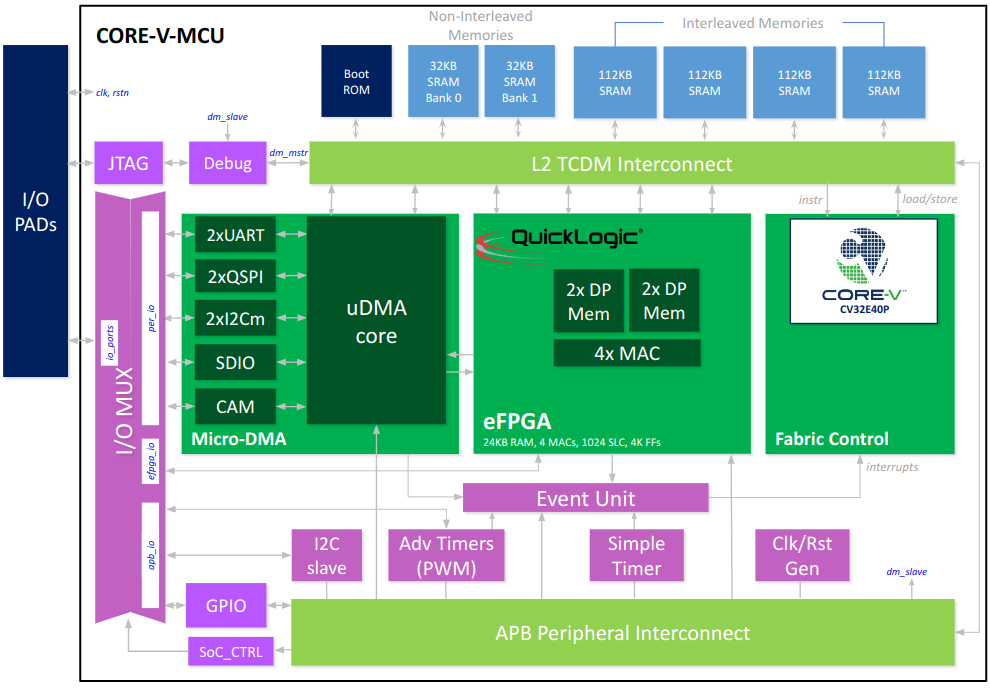
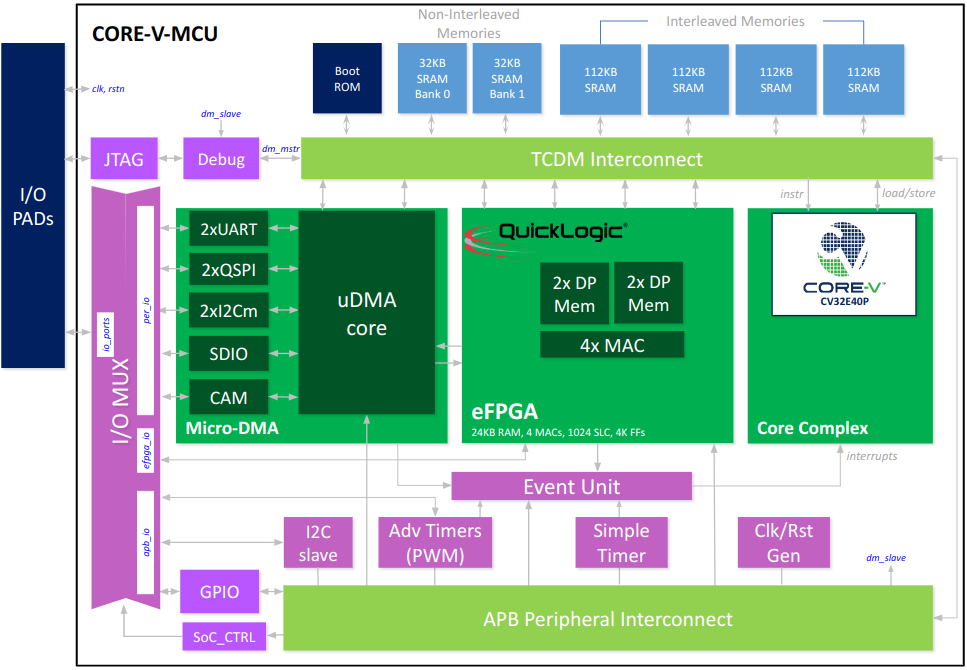
Rename fc_subsystem and l2_tcdm_interconnect

diff --git a/docs/doc-src/terminology.rst b/docs/doc-src/terminology.rst
@@ -7,36 +7,46 @@
 Terminology
 ===========
 
-+-----------------+------------------------------------------------------------------------+
-| Term            | Defintion                                                              |
-+=================+========================================================================+
-| APB             | Advanced Peripheral Bus. APB is a low-cost interface that is optimized |
-|                 | for minimal power consumption and reduced interface complexity.        |
-+-----------------+------------------------------------------------------------------------+
-| CORE-V          | A family of RISC-V cores developed by the OpenHW Group.                |
-+-----------------+------------------------------------------------------------------------+
-| CORE-V-MCU      | A micro-controller based on the CV32E40P CORE-V processor core.        |
-+-----------------+------------------------------------------------------------------------+
-| CSRs            | Control and Status Registers.                                          |
-+-----------------+------------------------------------------------------------------------+
-| DMA             | Direct Memory Access.                                                  |
-+-----------------+------------------------------------------------------------------------+
-| uDMA, micro-DMA | Small, specific-purpose DMA controller supported by the CORE-V-MCU.    |
-+-----------------+------------------------------------------------------------------------+
-| L2              | Level 2.  In memory architectures L1 is typically a cache tightly      |
-|                 | coupled to the core and L2 is a non-cached memory used for data store. |
-+-----------------+------------------------------------------------------------------------+
-| TCDM            | Tightly Coupled Data Memory.  Generic term for a memory architecure    |
-|                 | that is purpose built for a specific application.                      |
-+-----------------+------------------------------------------------------------------------+
-| L2 TCDM         | Level 2 Memory Interconnect.  An SoC bus fabric tuned specifically to  |
-| Interconnect    | provide high-bandwidth, low-latency connections to memory resources.   |
-+-----------------+------------------------------------------------------------------------+
-| XBUS_TCDM_BUS   | The I/O Bus used by the CORE-V-MCU L2 TCDM Interconnect.               |
-+-----------------+------------------------------------------------------------------------+
-| OBI             | Open Bus Interface. An open source bus specification.  OBI is used as  |
-|                 | the Instruction fetch and Data load/store bus by the CVE cores such as |
-|                 | the CV32E40P.                                                          |
-+-----------------+------------------------------------------------------------------------+
++-----------------+------------------------------------------------------------------------------+
+| Term            | Defintion                                                                    |
++=================+==============================================================================+
+| APB             | Advanced Peripheral Bus. APB is a low-cost interface that is optimized       |
+|                 | for minimal power consumption and reduced interface complexity.              |
++-----------------+------------------------------------------------------------------------------+
+| CSRs            | Control and Status Registers.                                                |
++-----------------+------------------------------------------------------------------------------+
+| Core Complex    | In the CORE-V-MCU, the Core Complex is a SystemVerilog module instantiating  |
+|                 | the processor core.                                                          |
++-----------------+------------------------------------------------------------------------------+
+| CORE-V          | A family of RISC-V cores developed by the OpenHW Group.                      |
++-----------------+------------------------------------------------------------------------------+
+| CORE-V-MCU      | A micro-controller based on the CV32E40P CORE-V processor core.              |
++-----------------+------------------------------------------------------------------------------+
+| DMA             | Direct Memory Access.                                                        |
++-----------------+------------------------------------------------------------------------------+
+| eFPGA           | Embedded Field Programmable Gate Array. The CORE-V-MCU supports an eFPGA.    |
++-----------------+------------------------------------------------------------------------------+
+| uDMA, micro-DMA | Small, specific-purpose DMA controller supported by the CORE-V-MCU.          |
++-----------------+------------------------------------------------------------------------------+
+| L1, L2          | Level 1, Level 2. In memory architectures L1 typically refers to a           |
+|                 | cache memory that is tightly tightly coupled to the core and L2 is a         |
+|                 | non-cached memory used for data store.                                       |
+|                 |                                                                              |
+|                 | The CORE-V-MCU does not support an L1 cache for either instructions or data. |
+|                 | The CORE-V-MCU Core Complex, eFPGA and uDMA Subsystems all access L2         |
+|                 | memory via the TCDM Interconnect.                                            |
++-----------------+------------------------------------------------------------------------------+
+| TCDM            | Tightly Coupled Data Memory.  Generic term for a memory architecure          |
+|                 | that is purpose built for a specific application.                            |
++-----------------+------------------------------------------------------------------------------+
+| TCDM            | Level 2 Memory Interconnect.  An SoC bus fabric tuned specifically to        |
+| Interconnect    | provide high-bandwidth, low-latency connections to memory resources.         |
++-----------------+------------------------------------------------------------------------------+
+| XBUS_TCDM_BUS   | The I/O Bus used by the CORE-V-MCU TCDM Interconnect.                        |
++-----------------+------------------------------------------------------------------------------+
+| OBI             | Open Bus Interface. An open source bus specification.  OBI is used as        |
+|                 | the Instruction fetch and Data load/store bus by the CVE cores such as       |
+|                 | the CV32E40P.                                                                |
++-----------------+------------------------------------------------------------------------------+
 
 

diff --git a/docs/doc-src/high_level_architecture.rst b/docs/doc-src/high_level_architecture.rst
@@ -54,54 +54,54 @@ The DP memories are accessible by user-defined logic in the eFPGA and are not ac
 
 Internal Buses
 --------------
-The CORE-V-MCU has two internal bus fabrics.
+The CORE-V-MCU has two internal bus interconnect fabrics.
 
-L2 TCDM Interconnect
-~~~~~~~~~~~~~~~~~~~~
-The L2 TCDM Interconnect is a high performance, low latency memory bus interconnect.
+TCDM Interconnect
+~~~~~~~~~~~~~~~~~
+The TCDM Interconnect is a high performance, low latency memory bus interconnect.
 The core accesses memory (both instruction fetch and data load/stores) via this interconnect.
 The micro-DMA controller moves data to/from its peripherals into data memory using this bus.
 
 APB Peripheral Interconnect
 ~~~~~~~~~~~~~~~~~~~~~~~~~~~
 Many of the peripherals used by the CORE-V-MCU use the APB bus as the control-plane interface.
-This interconnect is a slave to the L2 TCDM Interconnect and provides the core with memory-mapped access to the CSRs of the APB peripherals.
+This interconnect is a slave to the TCDM Interconnect and provides the core with memory-mapped access to the CSRs of the APB peripherals.
 The APB peripherals are:
 
-- SoC_CTRL
-- GPIO
-- I2C Slave
-- Advance Timers (PWM)
-- Event Timers
-- Clock and Reset Generators
-- Debug Module
+* SoC_CTRL
+* GPIO
+* I2C Slave
+* Advance Timers (PWM)
+* Event Timers
+* Clock and Reset Generators
+* Debug Module
 
 Subsystems
 ----------
 The CORE-V-MCU supports three subsystems
 
-Fabric Control Subsystem
+Core Control Subsystem
 ~~~~~~~~~~~~~~~~~~~~~~~~
-The Fabric Control (FC) subsystem accesses the L2 TCDM Interconnect (the *fabric*) such that it sees all resources of the CORE-V-MCU in a single, flat memory space.
-The sole component of the FC subsystem is the CV32E40P processor core.
+The core control subsystem accesses the TCDM Interconnect such that it sees all resources of the CORE-V-MCU in a single, flat memory space.
+The sole component of the core control subsystem is the CV32E40P processor core.
 
 Micro-DMA Subsystem
 ~~~~~~~~~~~~~~~~~~~
 The micro-DMA (uDMA) manages data transfer to/from memory for a set of peripherals.
-Its connections to the L2 TCDM Interconnect provide high-bandwidth, low-latency access to the interleaved data memories.
+Its connections to the TCDM Interconnect providing high-bandwidth, low-latency access to the interleaved data memories.
 Note that the uDMA cannot access the non-interleaved memories or the boot ROM.
 Peripherals supported by the uDMA are:
 
-- UART
-- I2C Master
-- QSPI
-- SDIO
-- Camera
+* UART
+* I2C Master
+* QSPI
+* SDIO
+* Camera
 
 Quicklogic Embedded FPGA
 ~~~~~~~~~~~~~~~~~~~~~~~~
-The eFPGA connects to the interleaved data memories via the L2 TCDM Interconnect.
-Note that there are four TCDM buses between the L2 TCDM Interconnect and the eFPGA allowing for eFPGA implementations to support high memory bandwidth requirements.
+The eFPGA connects to the interleaved data memories via the TCDM Interconnect.
+Note that there are four TCDM buses between the TCDM Interconnect and the eFPGA allowing for eFPGA implementations to support high memory bandwidth requirements.
 
 Other Functional Units
 ----------------------

diff --git a/docs/doc-src/udma_subsystem.rst b/docs/doc-src/udma_subsystem.rst
@@ -34,7 +34,7 @@ Architecture
 ------------
 
 The Figure below is a high-level block diagram of the uDMA.
-The main components are the Tx channels, the Rx channels, the interface to the L2 TCDM Interconnect and the configuration interface (CFG IF).
+The main components are the Tx channels, the Rx channels, the interface to the TCDM Interconnect and the configuration interface (CFG IF).
 The Tx/Rx channels connect to a set of peripherals.
 Individual peripherals may have one or more Tx or Rx channels depending on the need.
 As an example, the I2C master will require one TX and one RX channel while the camera interface (CPI) needs only one Rx channel.
@@ -123,13 +123,11 @@ Once again this is not a limit in the current IO subsystem since S/P conversion 
 
    Micro-DMA Tx Channel Protocol
 
-   2.3 L2 memory interface
+TCDM Interface
+~~~~~~~~~~~~~~
 
-L2 TCDM Interface
-~~~~~~~~~~~~~~~~~
-
-The L2 TCDM Interface(L2if) arbitrates between the access requests originated from the Tx or Rx channels.
-Among with the arbitration the L2if generates the proper byte enables and puts the data to the proper lanes when accessing the L2 memories.
+The TCDM Interface arbitrates between the access requests originated from the Tx or Rx channels.
+Among with the arbitration the TCDM interface generates the proper byte enables and puts the data to the proper lanes when accessing the L2 memories.
 An incoming write request from the Rx channels is sent to the L2 only if there is no pending read request from the TX channels or if the priority is assigned to the RX channels.
 The priority is flipped from Tx to Rx or vice versa when there is a conflict between read or write requests.
 

diff --git a/docs/doc-src/core_complex_subsystem.rst b/docs/doc-src/core_complex_subsystem.rst
@@ -1,0 +1,27 @@
+..
+   Copyright (c) 2023 OpenHW Group
+
+   SPDX-License-Identifier: Apache-2.0 WITH SHL-2.1
+
+.. _core_complex_subsystem:
+
+Core Complex Subsystem
+=======================
+The core complex subsystem in the CORE-V-MCU drives the primary control interfaces into the TCDM Interconnect.
+These interfaces view the entire memory map of the MCU as a single flat address space.
+This address space includes memories and peripheral CSRs, including those CSRs accessible via the Micro-DMA and/or the APB Interconnect.
+
+In the CORE-V-MCU the only component of the core complex subsystem is the CORE-V CV32E40P processor core.
+Future MCUs based on the CORE-V-MCU could implement the core control subsystem to host multiple cores and/or hardware accelerators.
+
+.. note::
+   In the RTL implementation of CORE-V-MCU the core complex is named the fabric control subsystem or fc_subsystem.
+   This name is an historical artefact from the PULP Platform heritage of the CORE-V-MCU.
+   It name was changed to reflect its use in the OpenHW Group implementation.
+
+CV32E40P Description
+--------------------
+
+The CORE-V-MCU incorporates v1.0.0 of the CV32E40P.
+Please see the `CV32E40P User Manual <https://docs.openhwgroup.org/projects/cv32e40p-user-manual/en/latest/>`_ for details.
+

diff --git a/docs/index.rst b/docs/index.rst
@@ -41,11 +41,11 @@ CORE-V-MCU User Manual
 
 
 ..  toctree::
-    :caption: CORE-V-MCU Bus Fabrics:
+    :caption: CORE-V-MCU Bus Interconnect:
     :maxdepth: 1
     :glob:
 
-    doc-src/l2_tcdm_interconnect.rst
+    doc-src/tcdm_interconnect.rst
     doc-src/apb_peripheral_interconnect.rst
 
 
@@ -54,7 +54,7 @@ CORE-V-MCU User Manual
     :maxdepth: 1
     :glob:
 
-    doc-src/fabric_control_subsystem.rst
+    doc-src/core_complex_subsystem.rst
     doc-src/udma_subsystem.rst
     doc-src/efpga_subsystem.rst
 

diff --git a/docs/doc-src/tcdm_interconnect.rst b/docs/doc-src/tcdm_interconnect.rst
@@ -3,10 +3,10 @@
 
    SPDX-License-Identifier: Apache-2.0 WITH SHL-2.1
 
-.. _l2_tcdm_interconnect:
+.. _tcdm_interconnect:
 
-L2 TCDM Interconnect
-====================
+TCDM Interconnect
+=================
 
 
 
